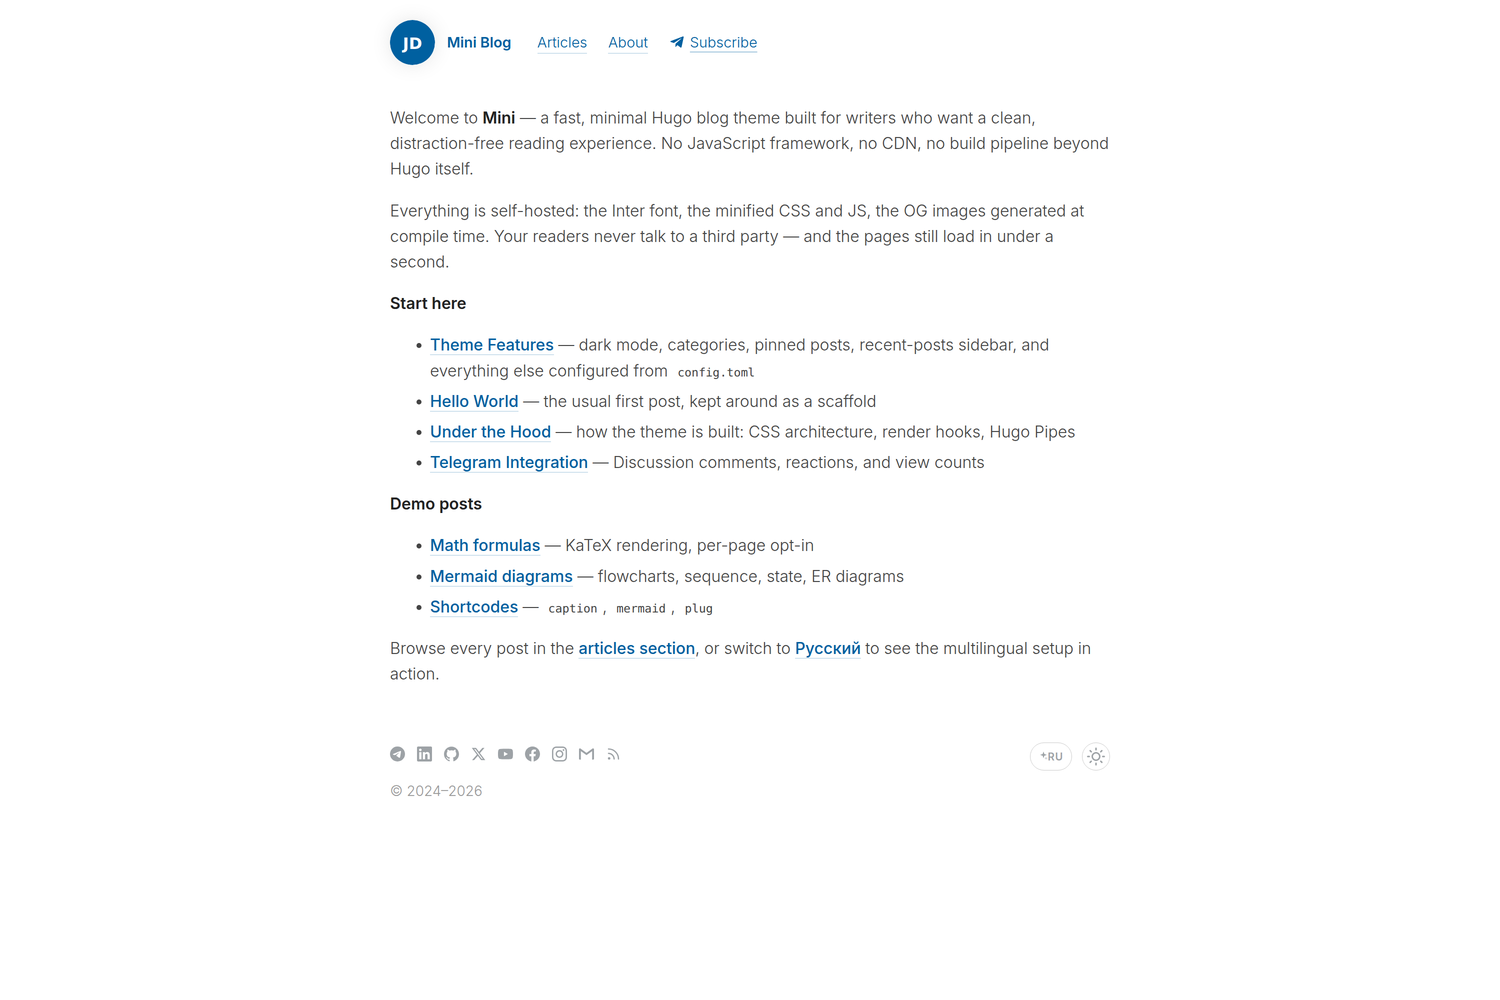
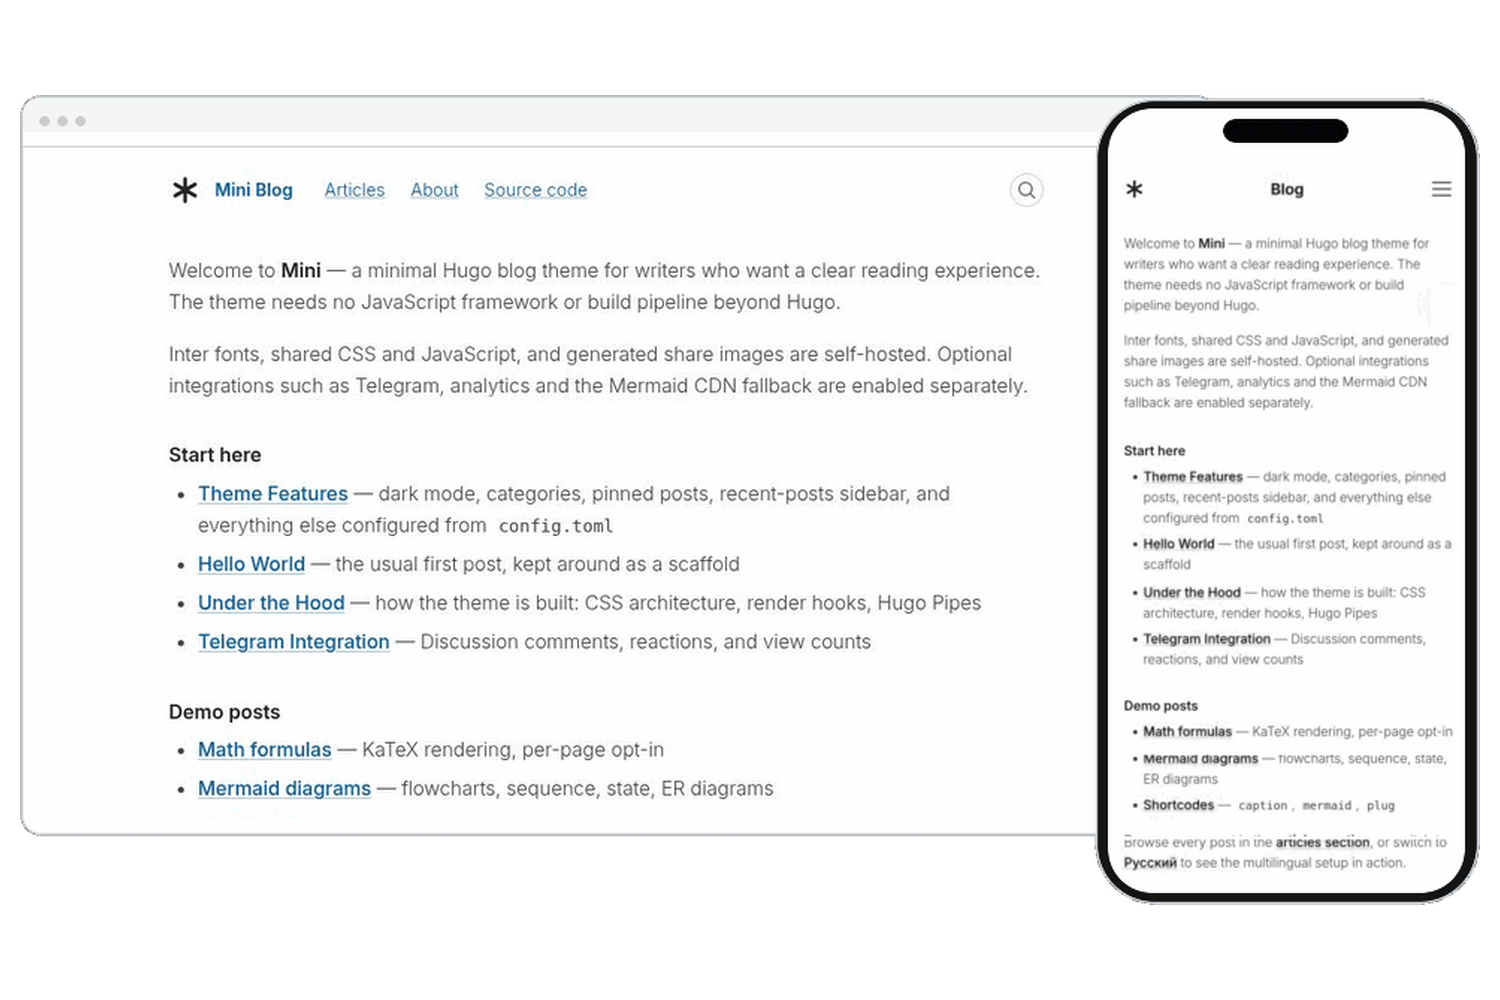
Prune outdated previews and refresh Hugo gallery screenshots

diff --git a/CHANGELOG.md b/CHANGELOG.md
@@ -15,7 +15,7 @@ Format follows [Keep a Changelog](https://keepachangelog.com/en/1.0.0/); this pr
 - Add a bilingual typography guide with rule examples, protected content and opt-outs.
 
 ### Changed
-- Refresh GitHub and Vercel preview images with the new asterisk branding, responsive demo, and visible search control.
+- Update Hugo gallery screenshots with the current asterisk branding, desktop search shortcut and mobile layout; remove obsolete preview files and keep social preview exports outside the theme repository.
 - Mark English as the AI-translated language in the example site and test the footer indicator in both languages.
 - Refresh the bilingual README animation with the current asterisk logo, desktop search shortcut, mobile search menu, and both color schemes.
 - Focus both README translations on a minimal personal blog for writers, with clear benefits and a short path to the first post; document the search shortcut in the configuration guide.
